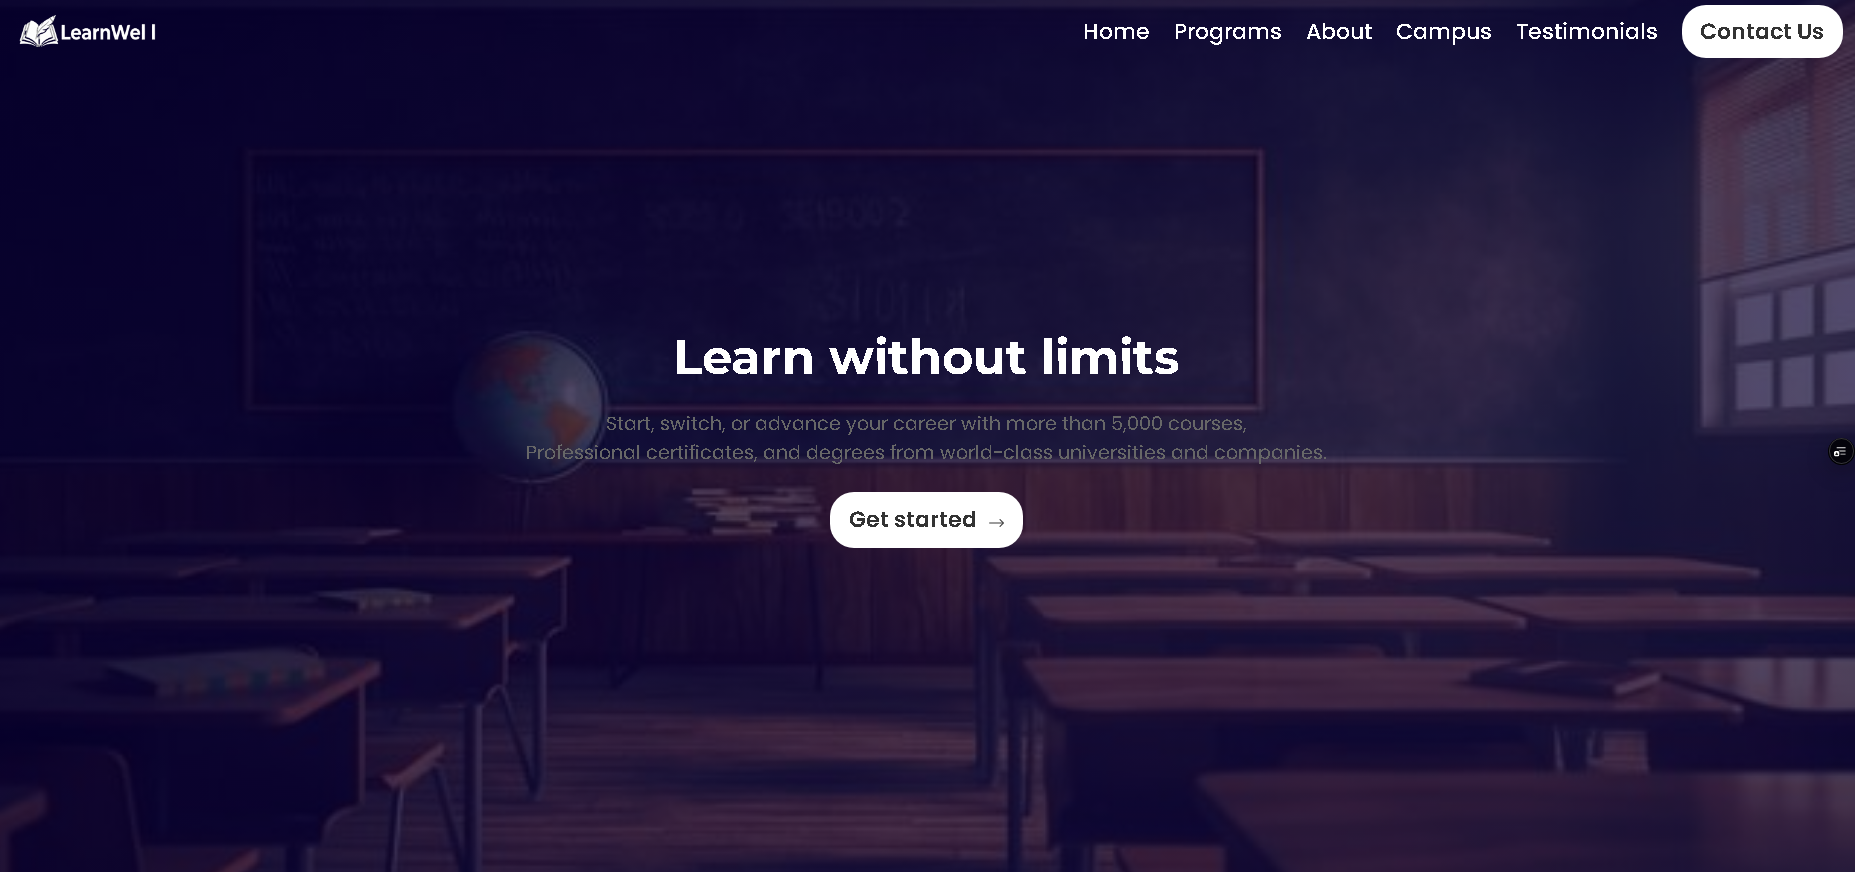
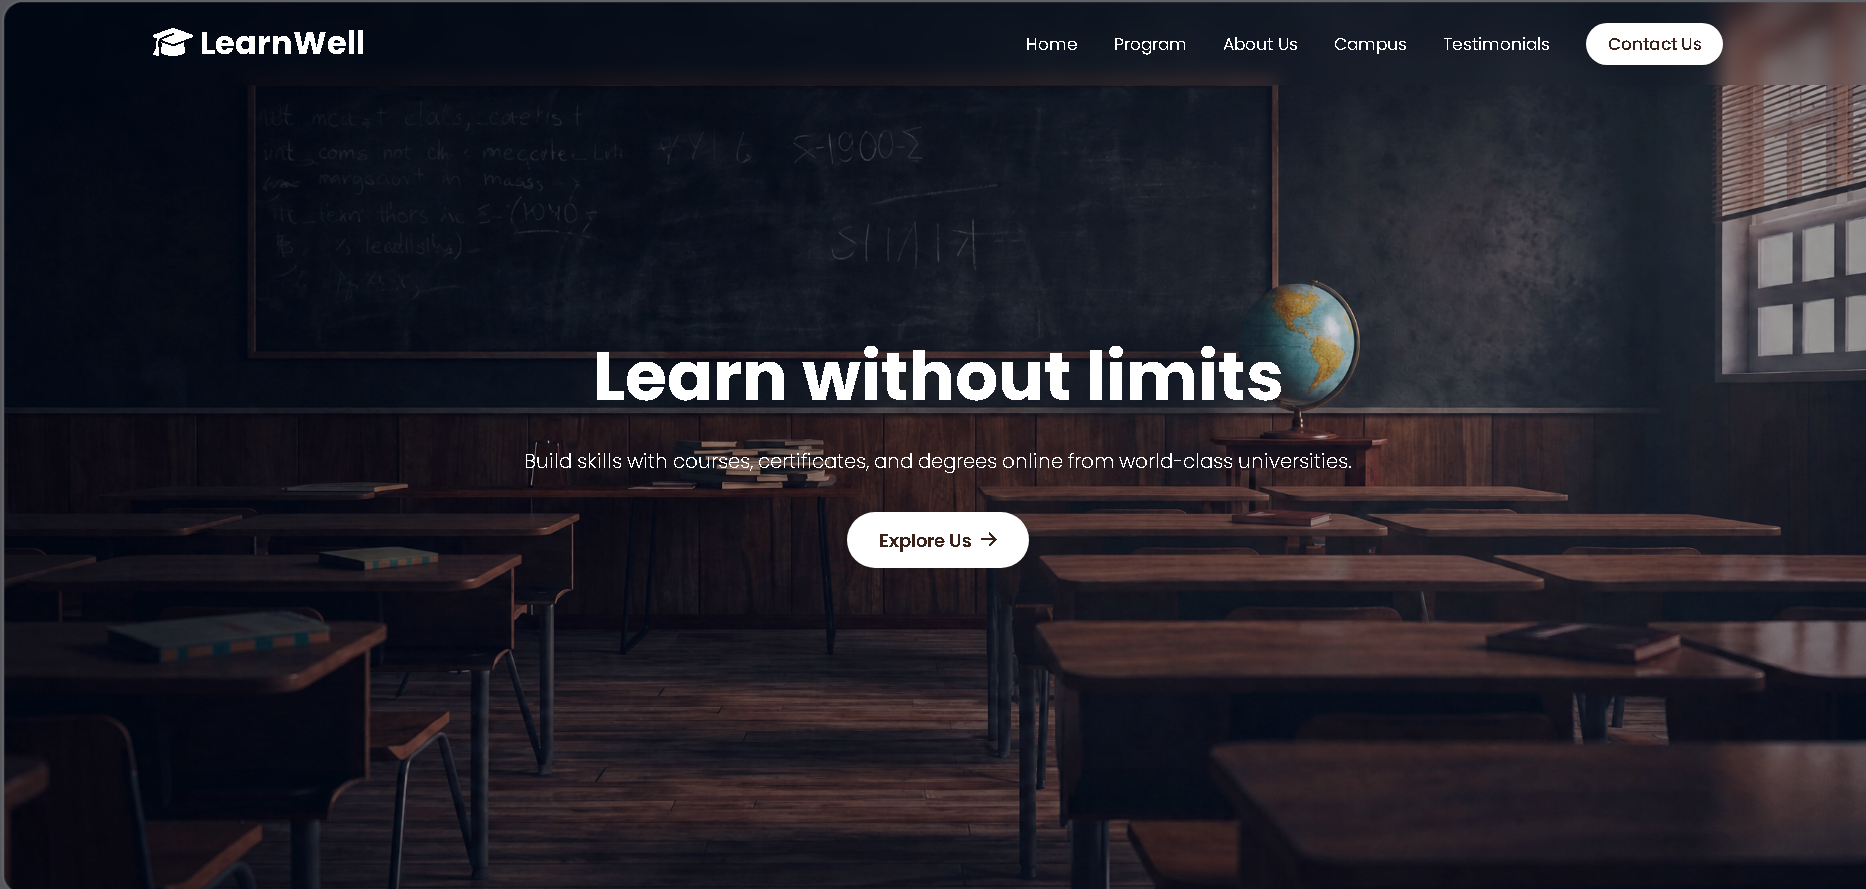
fix the project section or changes the website in porject showcase

diff --git a/src/Components/Projects.jsx b/src/Components/Projects.jsx
@@ -42,7 +42,7 @@ const Projects = () => {
   return (
     <section
       ref={sectionRef}
-      className="bg-gradient-to-b from-black via-[#080d1a] to-[#050811] text-white py-24 px-4 sm:px-8 lg:px-16"
+      className="bg-gradient-to-b from-black via-[#080d1a] to-[#050811] text-white py-24 px-4 sm:px-8 lg:px-16 overflow-visible"
       id="projects"
     >
       <div
@@ -67,15 +67,15 @@ const Projects = () => {
         </p>
       </div>
 
-      <div className="max-w-6xl mx-auto space-y-24 sm:space-y-32 relative pb-40">
+      <div className="max-w-6xl mx-auto relative pb-40 flex flex-col items-center gap-12">
         {Projectsdetails.map((project, index) => (
           <div
             key={project.id || index}
             style={{
-              top: `${96 + index * 65}px`,
+              top: `${96 + index * 68}px`,
               zIndex: index + 1
             }}
-            className={`relative sticky group bg-neutral-950/95 border border-neutral-800/80 rounded-3xl overflow-hidden p-6 sm:p-10 shadow-lg shadow-black/40 hover:border-neutral-700 transition-colors duration-300 ${project.borderColor}`}
+            className={`sticky w-full group bg-neutral-950/95 border border-neutral-800/80 rounded-3xl overflow-hidden p-6 sm:p-10 shadow-2xl shadow-black/80 hover:border-neutral-700 transition-colors duration-300 ${project.borderColor}`}
           >
             <div
               className={`absolute inset-0 bg-gradient-to-br ${project.accentColor} opacity-20 pointer-events-none`}

diff --git a/src/Data/Projectdetails.jsx b/src/Data/Projectdetails.jsx
@@ -38,11 +38,11 @@ export const Projectsdetails =
             title: "Education Website",
             category: "HTML5, CSS3 & JavaScript",
             badge: "Academic UI",
-            description: "A clean, responsive educational platform interface designed for course viewing, structured curriculum presentation, and student portal layouts.",
+            description: "A clean, responsive educational platform interface designed for course viewing, structured curriculum presentation, and student portal layouts. ",
             tags: ["HTML5", "CSS3", "JavaScript", "Responsive Design"],
             image: education_site,
-            liveLink: "https://learn-ui-eight.vercel.app/",
-            githubLink: "https://github.com/asadmirza-dev/learnwell-ui",
+            liveLink: "https://learn-ui-web-page.vercel.app/",
+            githubLink: "https://github.com/asadmirza-dev/learn-ui-web-page",
             accentColor: "from-amber-500/10 via-amber-500/5 to-transparent",
             borderColor: "hover:border-amber-500/50",
             glowColor: "group-hover:shadow-[0_0_40px_rgba(245,158,11,0.12)]"

diff --git a/src/Components/Navbar.jsx b/src/Components/Navbar.jsx
@@ -51,7 +51,7 @@ const Navbar = () => {
 
           <div className="flex flex-col items-center my-6 text-center">
             <div className="w-16 h-16 rounded-full border-2 border-cyan-400 overflow-hidden mb-2">
-              <img src={asad_img} alt="Asad Ulah" className="w-full h-full object-cover" />
+              <img src={asad_img} alt="Asad Ulah" className="w-full h-full object-cover object-top" />
             </div>
             <h3 className="font-semibold text-white">Asad Ulah</h3>
             <p className="text-xs text-neutral-400">Frontend & Web Developer</p>

diff --git a/src/index.css b/src/index.css
@@ -4,13 +4,12 @@ html, body {
   background-color: black;
   width: 100%;
   max-width: 100%;
-  overflow-x: hidden;
   position: relative;
 }
 
 #root {
   width: 100%;
-  overflow-x: hidden;
+  overflow-x: clip;
 }
 
 @keyframes spin-slow {
